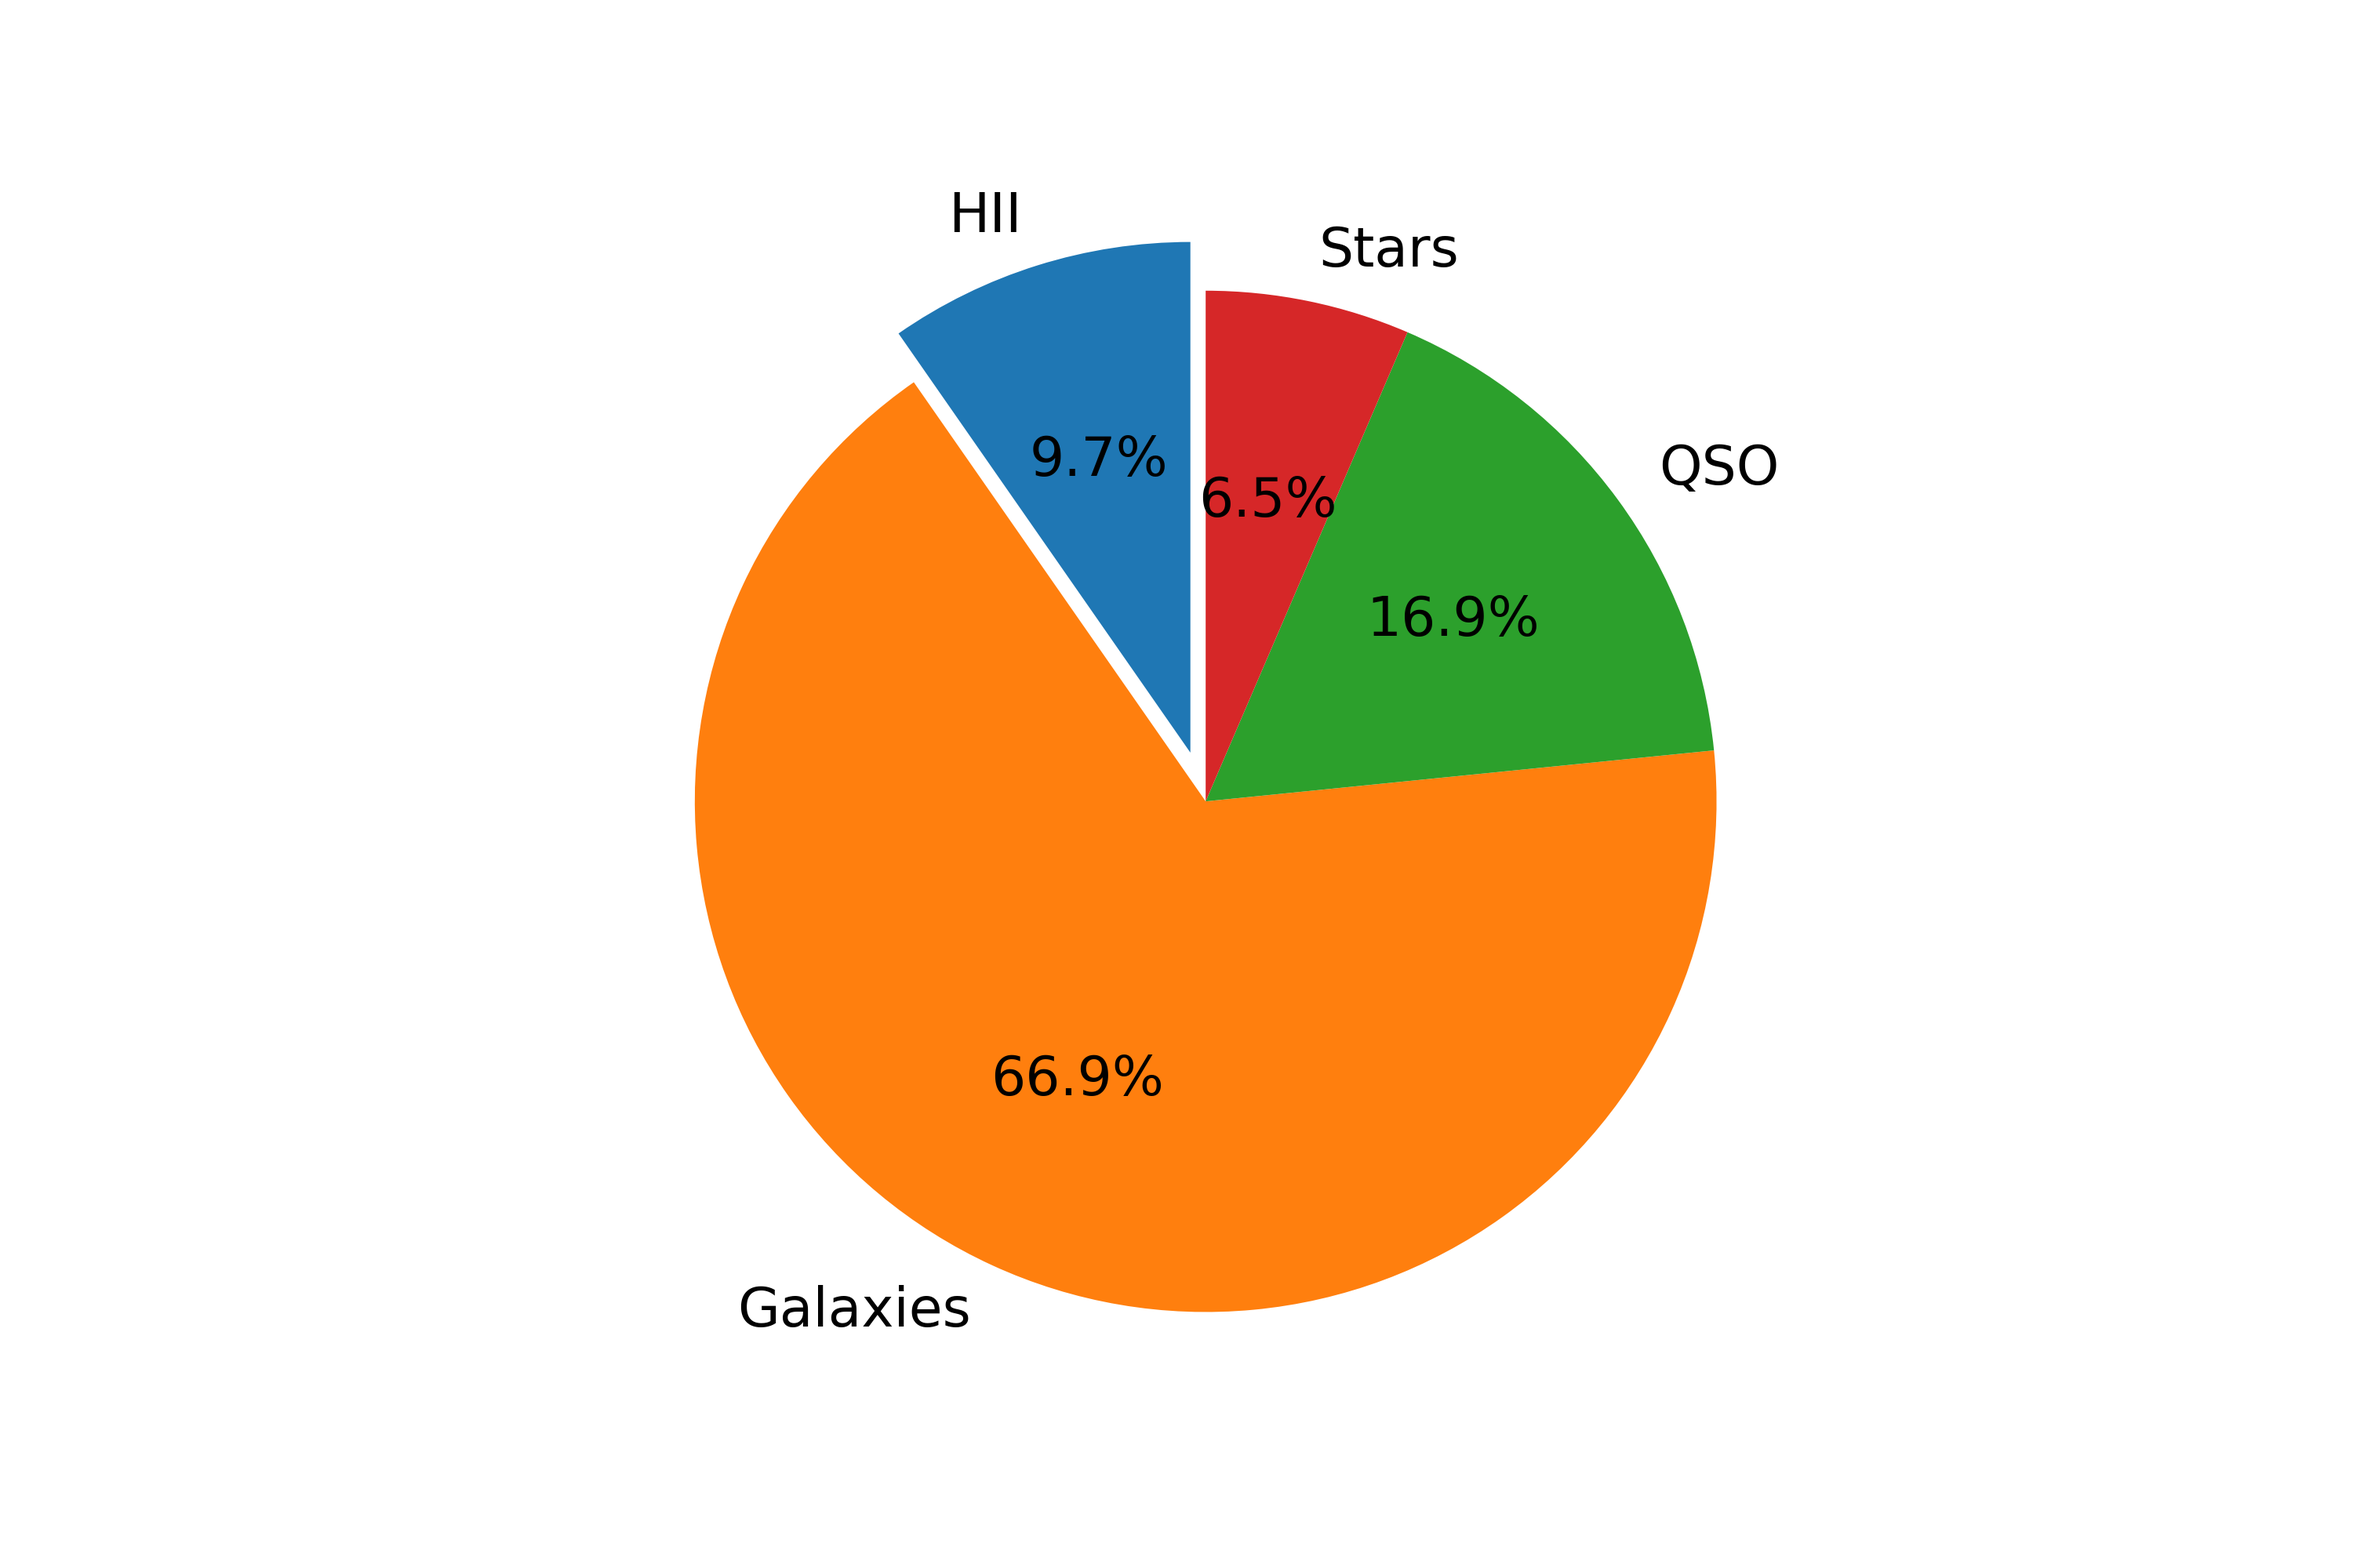
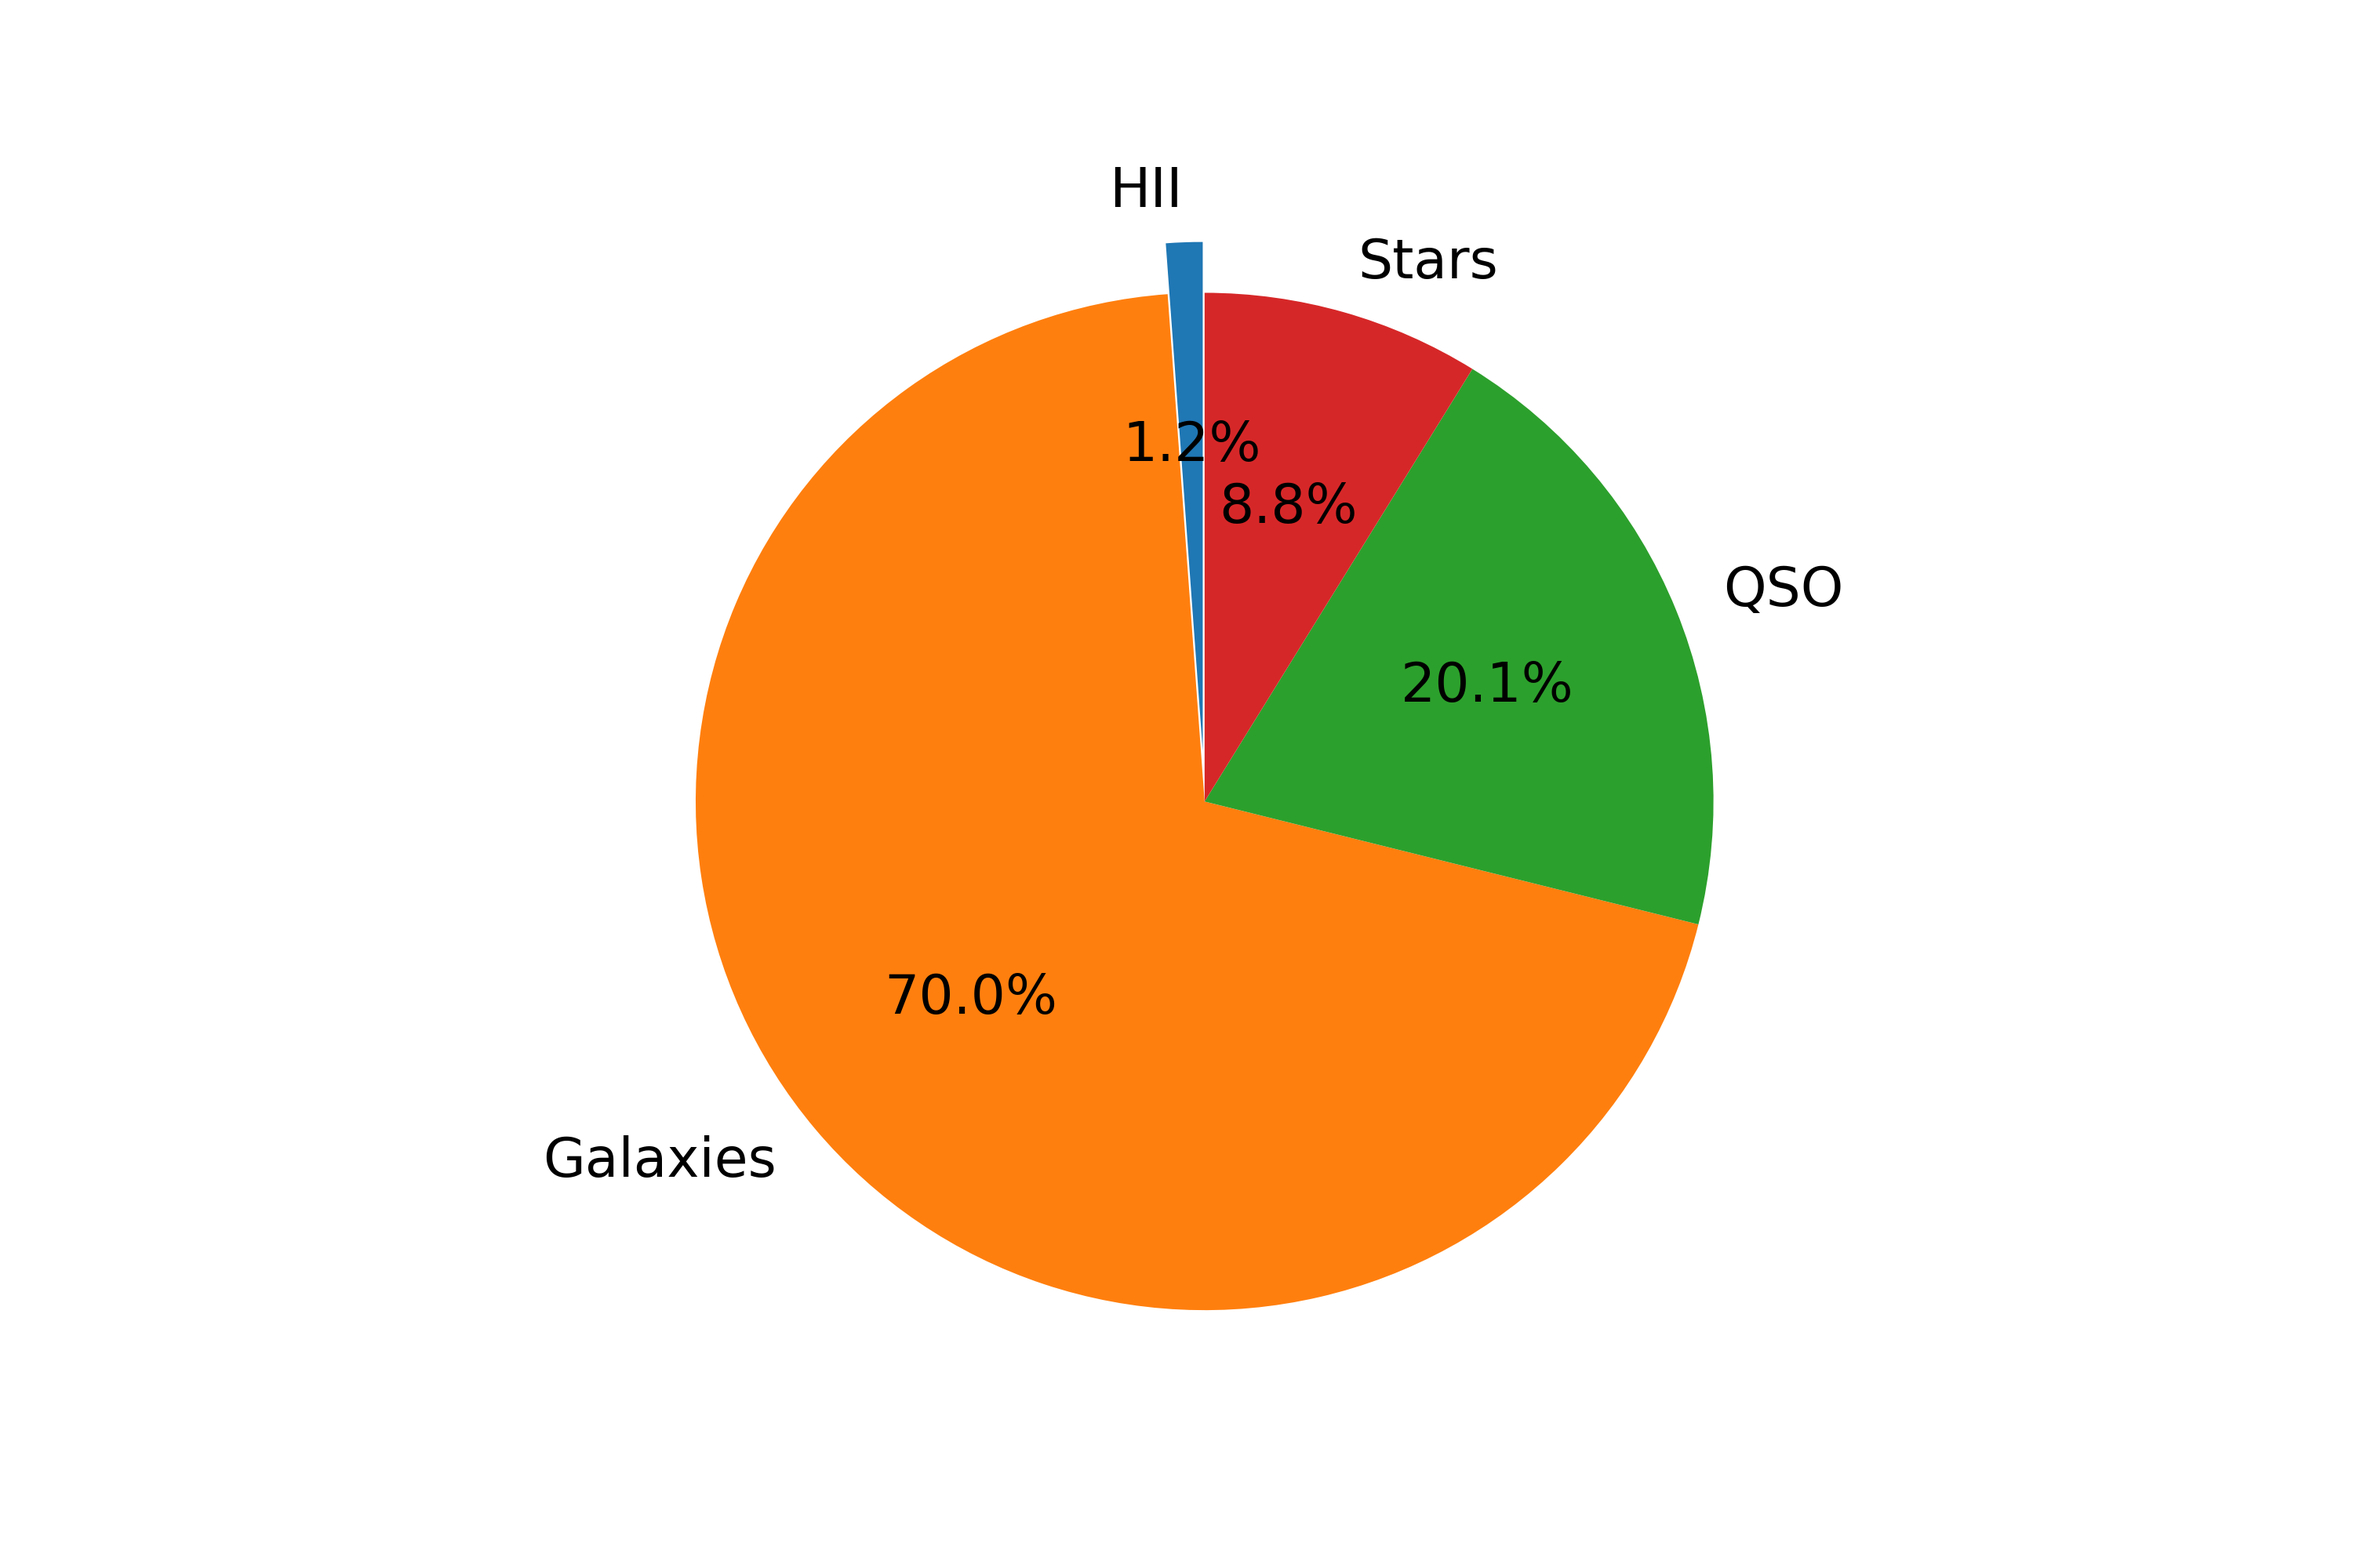
hyperparameters tunning

diff --git a/train_model.py b/train_model.py
@@ -1,40 +1,91 @@
 import tensorflow as tf
 from tensorflow import keras
-import pickle
 import numpy as np
-import datetime
+from sklearn.utils import class_weight
+from ray import tune
+from ray.tune.suggest.hyperopt import HyperOptSearch
+from ray.tune.integration.keras import TuneReportCallback
+import pandas as pd
 
-import config as c
-from models import get_compiled_model
-from data_pipelines import gal_tt_split
+from models import get_compiled_model, variable_model
+from data_pipelines import gal_tvt_split
 
-X_train, y_train, X_test, y_test = gal_tt_split()
+# Data loading and splitting
+X_train, y_train, X_val, y_val, X_test, y_test = gal_tvt_split(fracs=(0.9, 0.05, 0.05))
 
+# Categories coding
 cat = y_train.cat.categories
 y_train = y_train.cat.codes
+y_val = y_val.cat.codes
 y_test = y_test.cat.codes
 
-pickle.dump(X_test, open("xtest.p", "wb"))
-pickle.dump(y_test, open("ytest.p", "wb"))
-pickle.dump(cat, open("categories.p", "wb"))
-
-train_dataset = tf.data.Dataset.from_tensor_slices((X_train.values, y_train.values)).batch(512)
-
-cp_callback = keras.callbacks.ModelCheckpoint(filepath=c.checkpoint_path,
-                                              save_weights_only=True,
-                                              verbose=1)
-
-model = get_compiled_model()
-
-# ----------------
-from sklearn.utils import class_weight
+# Class weights initialization
 class_weights = class_weight.compute_class_weight(class_weight='balanced', classes=np.unique(y_train), y=y_train)
 class_weights_dict = dict(enumerate(class_weights))
-print(class_weights_dict)
-# ----------------
-
-log_dir = "logs/fit/" + datetime.datetime.now().strftime("%Y%m%d-%H%M%S")
-tensorboard_callback = keras.callbacks.TensorBoard(log_dir=log_dir, histogram_freq=1)
+val_weights = y_val.map(class_weights_dict)
 
 
-model.fit(train_dataset, epochs=50, callbacks=[cp_callback, tensorboard_callback], class_weight=class_weights_dict)
+# Model initialization
+def train_model(config):
+    # config: batch, learning_rate, n_layers, n_neurons
+    # Setting callbacks
+    cp_name = f"lr({config['learning_rate']:.4f})b({config['batch']})" + '.h5'
+    cp_callback = keras.callbacks.ModelCheckpoint(filepath='trained-models/' + cp_name,
+                                                  monitor='val_loss',
+                                                  mode='min',
+                                                  save_best_only=True,
+                                                  verbose=1, )
+
+    tb_log_dir = "logs/fit/" + cp_name
+    tb_callback = keras.callbacks.TensorBoard(log_dir=tb_log_dir, histogram_freq=1)
+
+    es_callback = keras.callbacks.EarlyStopping(monitor='val_loss',
+                                                mode='min',
+                                                verbose=1,
+                                                patience=10,
+                                                )
+
+    tune_callback = TuneReportCallback({"val_loss": "val_loss"})
+
+    callback_list = [cp_callback, tb_callback, es_callback, tune_callback]
+
+    # Dividing dataset into mini-batches
+    train_dataset = tf.data.Dataset.from_tensor_slices((X_train.values, y_train.values)).batch(config['batch'])
+
+    # Training model
+    # model = get_compiled_model(learning_rate=config['learning_rate'])
+    model = variable_model(
+        learning_rate=config['learning_rate'],
+        n_layers=config['n_layers'],
+        n_neurons=config['n_neurons']
+    )
+
+    fit_history = model.fit(train_dataset,
+                            validation_data=(X_val, y_val, val_weights.values),
+                            epochs=150,
+                            callbacks=callback_list,
+                            class_weight=class_weights_dict)
+
+    pd.DataFrame(fit_history.history).to_csv("logs/histories/history" + cp_name[:-3] + ".csv")
+
+
+# Running hyperparameters tuning
+analysis = tune.run(
+    train_model,
+    name="HII classification",
+    metric="val_loss",
+    mode="min",
+    search_alg=HyperOptSearch(metric="val_loss", mode="min"),
+    num_samples=15,
+    stop={"training_iteration": 150},
+    config={
+        "n_layers": tune.randint(1, 5),
+        "n_neurons": tune.choice([6, 12, 24, 48]),
+        "learning_rate": 0.001,
+        "batch": 512,
+    },
+    resources_per_trial={"cpu": 4}) #Due to memory limitations
+
+print("Best hyperparameters found were: ", analysis.best_config)
+
+analysis.results_df.to_csv('logs/anasysis_df_models.csv')

diff --git a/data_pipelines.py b/data_pipelines.py
@@ -34,14 +34,29 @@ def load_catalogue():
     return pd.concat([hii_data, sdss_data])
 
 
-def gal_tt_split(frac = 0.8, random_state = 172):
+def gal_tvt_split(fracs = (0.8, 0.1, 0.1), random_state = 172):
     data = load_catalogue().drop(columns=['ra', 'dec', 'z']).reset_index(drop=True)
     data = data.sample(frac=1, random_state=random_state+42)
     data['class'] = pd.Categorical(data['class'])
 
-    X_train = data.sample(frac=0.8, random_state=random_state)
-    X_test = data.drop(X_train.index)
+    X_train = data.sample(frac=fracs[0], random_state=random_state)
     y_train = X_train.pop('class')
+    X_rest = data.drop(X_train.index)
+    X_val = X_rest.sample(frac=fracs[1]/(1-fracs[0]), random_state=random_state+42)
+    y_val = X_val.pop('class')
+    X_test = X_rest.drop(X_val.index)
+    y_test = X_test.pop('class')
+
+    return X_train, y_train, X_val, y_val, X_test, y_test
+
+def gal_tt_split(frac = 0.9, random_state = 172):
+    data = load_catalogue().drop(columns=['ra', 'dec', 'z']).reset_index(drop=True)
+    data = data.sample(frac=1, random_state=random_state+42)
+    data['class'] = pd.Categorical(data['class'])
+
+    X_train = data.sample(frac=frac, random_state=random_state)
+    y_train = X_train.pop('class')
+    X_test = data.drop(X_train.index)
     y_test = X_test.pop('class')
 
     return X_train, y_train, X_test, y_test

diff --git a/models.py b/models.py
@@ -1,6 +1,6 @@
 from tensorflow import keras
 
-def get_compiled_model():
+def get_compiled_model(learning_rate=0.01):
   model = keras.Sequential([
     keras.layers.Dense(12, activation='relu'),
     keras.layers.Dense(24, activation='relu'),
@@ -8,7 +8,20 @@ def get_compiled_model():
     keras.layers.Dense(4)
   ])
 
-  model.compile(optimizer='adam',
+  model.compile(optimizer=keras.optimizers.Adam(learning_rate=learning_rate),
                 loss=keras.losses.SparseCategoricalCrossentropy(from_logits=True),
                 metrics=['accuracy'])
   return model
+
+def variable_model(learning_rate=0.01, n_layers=3, n_neurons=24):
+    model = keras.Sequential()
+    for i in range (n_layers):
+        model.add(keras.layers.Dense(n_neurons, activation='relu'))
+
+    model.add(keras.layers.Dense(4))
+
+    model.compile(optimizer=keras.optimizers.Adam(learning_rate=learning_rate),
+                  loss=keras.losses.SparseCategoricalCrossentropy(from_logits=True),
+                  metrics=['accuracy'])
+
+    return model

diff --git a/test_model.py b/test_model.py
@@ -1,16 +1,18 @@
-import pickle
 import os
 
 from visualization import *
 from models import get_compiled_model
 import config as c
+from data_pipelines import gal_tvt_split
 
 model = get_compiled_model()
 model.load_weights(c.checkpoint_path)
 
-cat = pickle.load(open('categories.p', 'rb'))
-X_test = pickle.load(open('xtest.p', 'rb'))
-y_test = pickle.load(open('ytest.p', 'rb'))
+X_train, y_train, X_val, y_val, X_test, y_test = gal_tvt_split(fracs=(0.9, 0.05, 0.05))
+cat = y_train.cat.categories
+y_train = y_train.cat.codes
+y_val = y_val.cat.codes
+y_test = y_test.cat.codes
 
 loss, acc = model.evaluate(X_test, y_test, verbose=2)
 print(f"Restored model, accuracy: {100 * acc:3.2f}%")

diff --git a/README.md b/README.md
@@ -1,4 +1,4 @@
-# Goals
+### Goals
 HII regions (regions of interstellar atomic hydrogen that is ionized) 
 are important objects for astrophysics. 
 In particular, studies of HII regions can help us better understand 
@@ -12,20 +12,21 @@ this project is to build a model for discovering complex non-linear
 relationships between input parameters for HII regions classification.
 
 
-# Dataset
-The base for this investigation is a sample of approx. 43000 HII regions,
+### Dataset
+The base for this investigation is a sample of approx. 43,000 HII regions,
 selected from SDSS DR7 database from objects for which spectra are available (first sample).
 To represent the "other" objects, the classification data from SDSS DR12
 was downloaded. Those objects were classified automatically based on available spectra
 of objects (second sample). The second sample includes 3 classes of objects: Galaxy, Star, QSO 
 (Quasi-Stellar Object). As HII regions were selected from the same database, the intercept
 of two samples was removed from the second sample. 
-The final dataset includes approx. 445000 objects.
+The final dataset includes approx. 3,726,000 objects. Because of highly unbalanced dataset
+class weights were used during the loss function calculation.
 
 <img src="https://github.com/lap1dem/hii-classification/blob/master/figures/piechart.png?raw=true" height="300" align="center">
 
 
-# Model
+### Test model
 A neural network was built using `tensorflow`. The input layer takes six parameters - 
 measured magnitudes in photometric filters u, b, g, r, i, z. The output layer represents 
 four target classes - HII, Other Galaxies, QSO, Stars. The model also includes 3 hidden
@@ -36,7 +37,7 @@ The cross entropy and Adam optimizer were used to calculate and minimize the err
 
 
 
-# Results
+### First results
 The model was trained and tested with 94.24% and 94.47% total accuracy respectively.
 But the idea is to build a classifier for HII regions, so the precision of HII regions prediction
 would be more appropriate, which is 77.8% (see confusion matrix below). Comparing
@@ -47,7 +48,7 @@ to other works in this field, the result is satisfying but could be improved.
 
 
 
-# Further steps
-* Dataset review.
-* Hyperparameters optimization for training the most precise model.
+### Further steps
+* Dataset review (Done!).
+* Hyperparameters optimization for training the most precise model (in progress).
 * Comparing results to other ML techniques, such as SVM or Random Forest.
